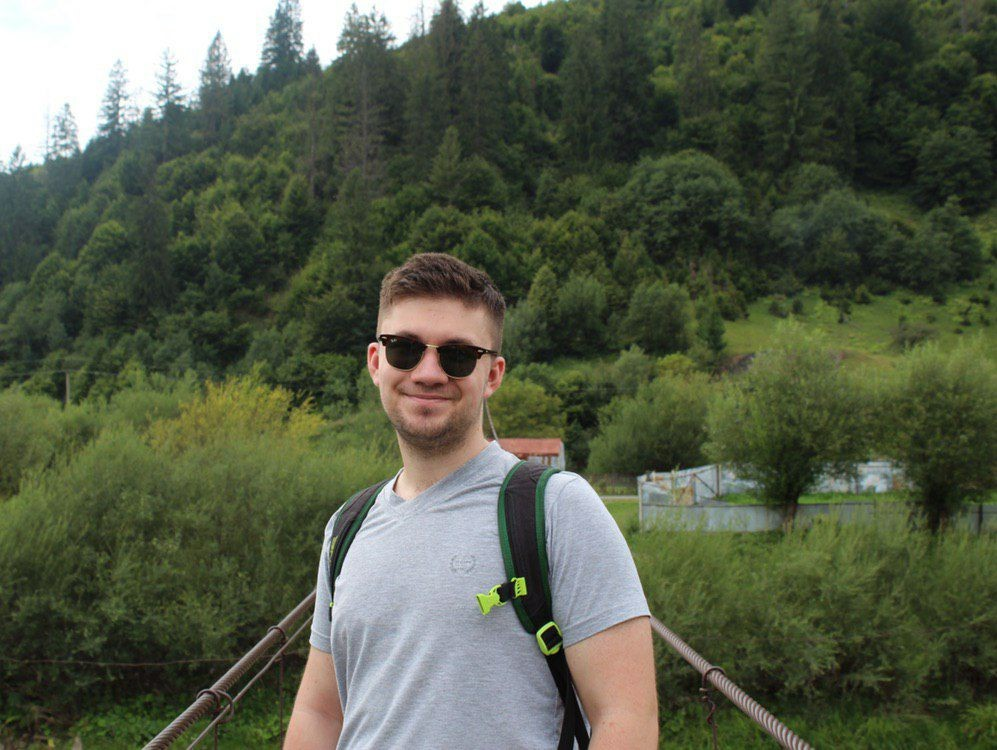
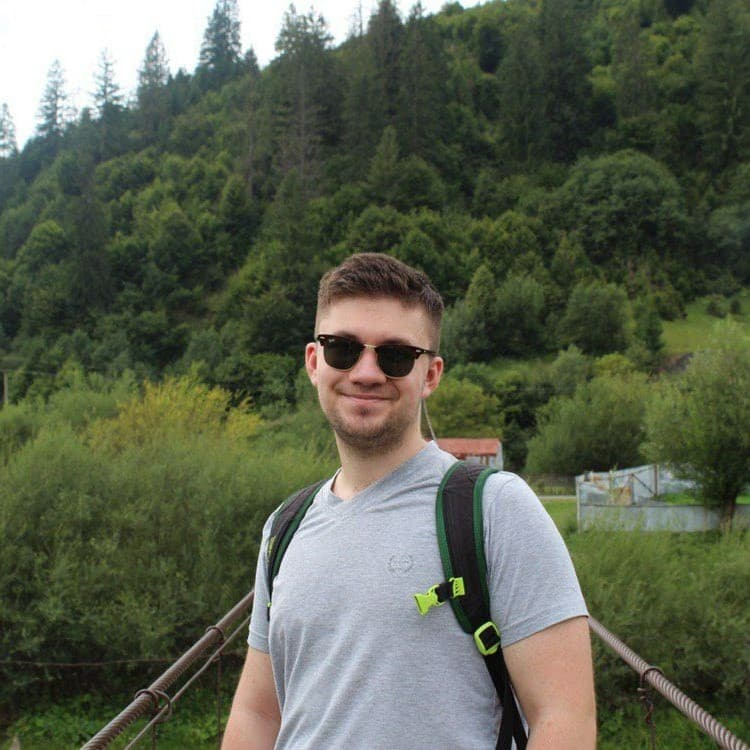
upd modal

diff --git a/src/partials/modal-team.html b/src/partials/modal-team.html
@@ -123,7 +123,7 @@
         <div class="team__card">
           <img
             class="team__photo"
-            src="/src/images/team/foto.jpg"
+            src="/src/images/team/IMG_Ponomarenko_Paul.jpg"
             alt="Pavlo Ponomarenko"
           />
         </div>
@@ -159,46 +159,7 @@
         <p class="team__name">Viktor Yakymenko</p>
         <p class="team__role">Developer</p>
       </div>
-      <div class="team__member">
-        <div class="team__card">
-          <img
-            class="team__photo"
-            src="/src/images/team/foto.jpg"
-            alt="Oleksandr Piniugin"
-          />
-        </div>
-        <a
-          class="team__link"
-          href="https://github.com/Piniuhin"
-          target="_blank"
-        >
-          <svg class="team__github" width="25" height="25">
-            <use href="/src/images/modal-icon.svg#github"></use>
-          </svg>
-        </a>
-        <p class="team__name">Oleksandr Piniugin</p>
-        <p class="team__role">Developer</p>
-      </div>
-      <div class="team__member">
-        <div class="team__card">
-          <img
-            class="team__photo"
-            src="/src/images/team/foto.jpg"
-            alt="Maksym Karpiuk"
-          />
-        </div>
-        <a
-          class="team__link"
-          href="https://github.com/Konoplya156"
-          target="_blank"
-        >
-          <svg class="team__github" width="25" height="25">
-            <use href="/src/images/modal-icon.svg#github"></use>
-          </svg>
-        </a>
-        <p class="team__name">Maksym Karpiuk</p>
-        <p class="team__role">Developer</p>
-      </div>
+
     </div>
   </div>
 </div>

diff --git a/src/sass/_modal-team.scss b/src/sass/_modal-team.scss
@@ -6,6 +6,7 @@
   left: 0;
   z-index: 999;
   background-color: #00000079;
+  overflow:hidden;
 }
 .team__backdrop--hidden {
   position: absolute;
@@ -41,7 +42,7 @@
 }
 
 .team__modal {
-  border-radius: 10px;
+  border-radius: 25px;
   position: absolute;
   display: flex;
   justify-content: center;
@@ -50,7 +51,7 @@
   left: 50%;
   margin: 0;
   padding: 7px;
-  background-color: #f7f7f7;
+  background-color: #FAEBD7;
   transform: translateX(-50%);
   overflow-y: scroll;
 
@@ -78,7 +79,7 @@
   transition: all 1s;
   &:hover,
   &:focus {
-    color: #ff6b08;
+    color: #A52A2A;
   }
 
   @media screen and (min-width: 768px) {
@@ -154,7 +155,7 @@
 
   &:hover,
   &:focus {
-    color: #ff6b08;
+    color: #A52A2A;
   }
 
   @media screen and (min-width: 768px) {
